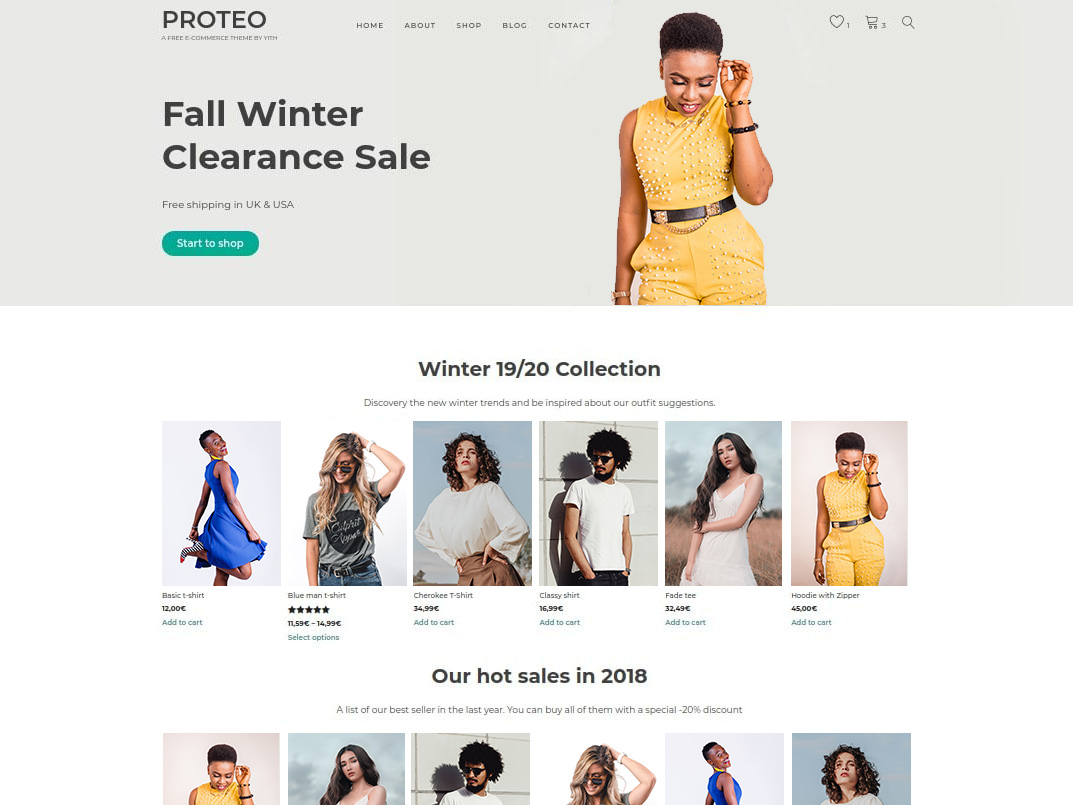
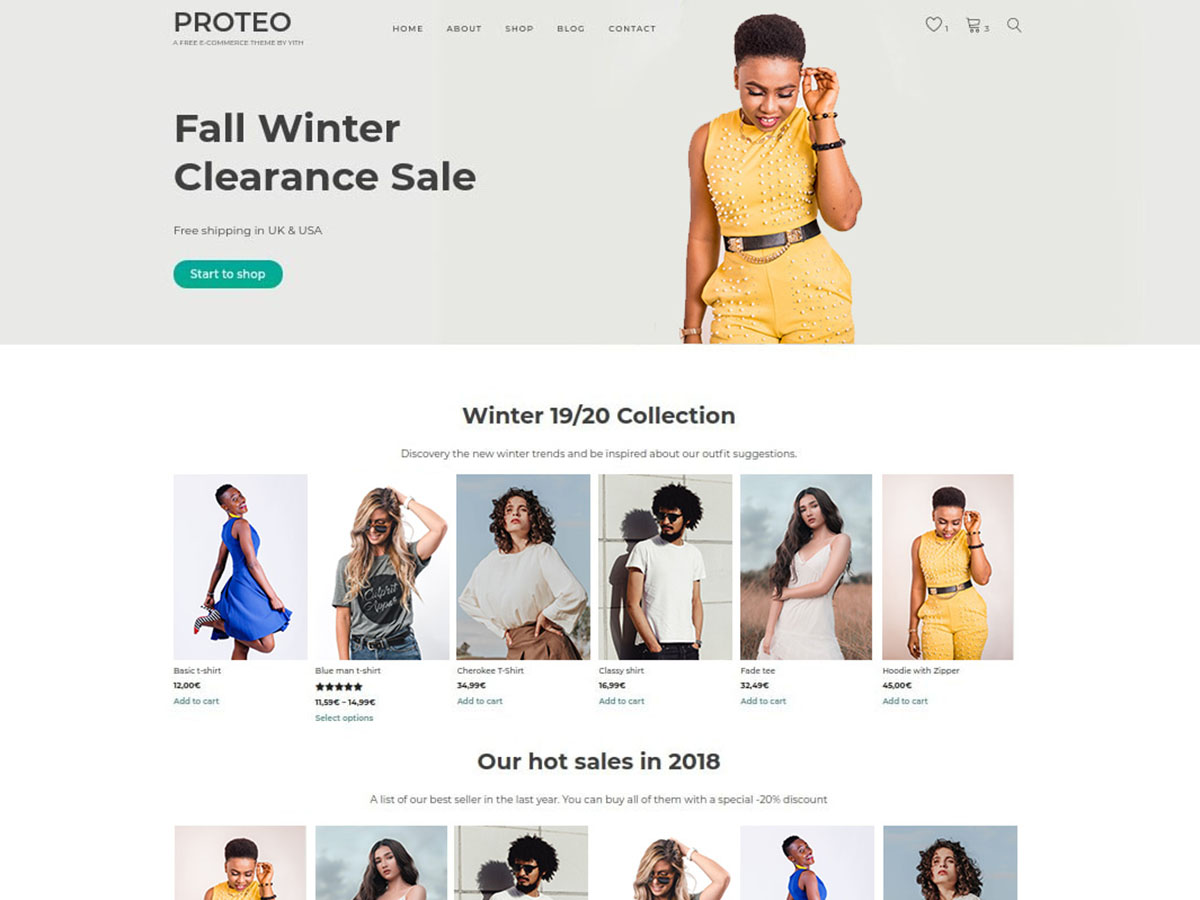
Version 1.0.7 * Minimum PHP is now 5.6 * Fix theme code to match PHP WordPress Coding standards * Fix blog posts date layout issue * Fix menu layout issue * Fix php notice * Fix missing select2 scripts when WooCommerce is not enabled * New screenshot with image authors credits

diff --git a/sass/style.scss b/sass/style.scss
@@ -5,7 +5,7 @@ Author: YITH
 Author URI: https://yithemes.com
 Description: Proteo is a sleek, modern and “Gutenberg-friendly” e-commerce theme. Developed with a beautiful UI and a minimal design, is perfect for each kind of shop. Easy to manage and to customize, Proteo is the best solution if you want a complete e-commerce template and start quickly to sell your products with WooCommerce without a technical knowledge. Use it also for corporate site or a blog: there are no limits about what you can do with a beautiful and usable theme like this! Main features: Colors and Typography customization (Google font support), Logo customization, 3 different Header layouts, Advanced customizer theme options, Sidebar Management, Sidebar Chooser on each page and product, Page title icons, Top Bar Management, Easy main color shade chooser, Buttons style management (gradient buttons support), Footer management with multiple sidebars, WooCommerce support, Shop Theme Options, Custom WooCommerce messages and animated WooCommerce alert notices, Two cart page layouts, Bootstrap grid system, CSS animations, Gutenberg support, Responsive, Fullscreen search, Multilevel menus, Support to all YITH plugins, SVG icons for HiDPI screens, Translation Ready. <a href="https://proteo.yithemes.com/about-proteo/" rel="nofollow" target="_blank">Discover more ></a> | <a href="https://proteo.yithemes.com/" rel="nofollow" target="_blank">Check our live demo ></a>
 
-Version: 1.0.6
+Version: 1.0.7
 License: GPLv2 or later
 License URI: http://www.gnu.org/licenses/gpl-2.0.html
 Text Domain: yith-proteo
@@ -13,13 +13,8 @@ Tags: one-column, two-columns, left-sidebar, right-sidebar, wide-blocks, block-s
 
 This theme, like WordPress, is licensed under the GPL.
 Use it to make something cool, have fun, and share what you've learned with others.
-
-yith-proteo is based on Underscores https://underscores.me/, (C) 2012-2017 Automattic, Inc.
-Underscores is distributed under the terms of the GNU GPL v2 or later.
-
-Normalizing styles have been helped along thanks to the fine work of
-Nicolas Gallagher and Jonathan Neal https://necolas.github.io/normalize.css/
 */
+
 /*--------------------------------------------------------------
 >>> TABLE OF CONTENTS:
 ----------------------------------------------------------------
@@ -31,17 +26,24 @@ Nicolas Gallagher and Jonathan Neal https://necolas.github.io/normalize.css/
 # Navigation
 	## Links
 	## Menus
+# Header
 # Accessibility
 # Alignments
 # Clearings
+# Full Screen Search
 # Widgets
 # Content
 	## Posts and pages
 	## Comments
+# Footer
+# WooCommerce
 # Infinite scroll
 # Media
 	## Captions
 	## Galleries
+# Shortcodes
+# Third Party
+# Responsive
 --------------------------------------------------------------*/
 @import "variables-site/variables-site";
 @import "mixins/mixins-master";

diff --git a/style.css b/style.css
@@ -6,7 +6,7 @@ Author: YITH
 Author URI: https://yithemes.com
 Description: Proteo is a sleek, modern and “Gutenberg-friendly” e-commerce theme. Developed with a beautiful UI and a minimal design, is perfect for each kind of shop. Easy to manage and to customize, Proteo is the best solution if you want a complete e-commerce template and start quickly to sell your products with WooCommerce without a technical knowledge. Use it also for corporate site or a blog: there are no limits about what you can do with a beautiful and usable theme like this! Main features: Colors and Typography customization (Google font support), Logo customization, 3 different Header layouts, Advanced customizer theme options, Sidebar Management, Sidebar Chooser on each page and product, Page title icons, Top Bar Management, Easy main color shade chooser, Buttons style management (gradient buttons support), Footer management with multiple sidebars, WooCommerce support, Shop Theme Options, Custom WooCommerce messages and animated WooCommerce alert notices, Two cart page layouts, Bootstrap grid system, CSS animations, Gutenberg support, Responsive, Fullscreen search, Multilevel menus, Support to all YITH plugins, SVG icons for HiDPI screens, Translation Ready. <a href="https://proteo.yithemes.com/about-proteo/" rel="nofollow" target="_blank">Discover more ></a> | <a href="https://proteo.yithemes.com/" rel="nofollow" target="_blank">Check our live demo ></a>
 
-Version: 1.0.6
+Version: 1.0.7
 License: GPLv2 or later
 License URI: http://www.gnu.org/licenses/gpl-2.0.html
 Text Domain: yith-proteo
@@ -14,12 +14,6 @@ Tags: one-column, two-columns, left-sidebar, right-sidebar, wide-blocks, block-s
 
 This theme, like WordPress, is licensed under the GPL.
 Use it to make something cool, have fun, and share what you've learned with others.
-
-yith-proteo is based on Underscores https://underscores.me/, (C) 2012-2017 Automattic, Inc.
-Underscores is distributed under the terms of the GNU GPL v2 or later.
-
-Normalizing styles have been helped along thanks to the fine work of
-Nicolas Gallagher and Jonathan Neal https://necolas.github.io/normalize.css/
 */
 /*--------------------------------------------------------------
 >>> TABLE OF CONTENTS:
@@ -32,17 +26,24 @@ Nicolas Gallagher and Jonathan Neal https://necolas.github.io/normalize.css/
 # Navigation
 	## Links
 	## Menus
+# Header
 # Accessibility
 # Alignments
 # Clearings
+# Full Screen Search
 # Widgets
 # Content
 	## Posts and pages
 	## Comments
+# Footer
+# WooCommerce
 # Infinite scroll
 # Media
 	## Captions
 	## Galleries
+# Shortcodes
+# Third Party
+# Responsive
 --------------------------------------------------------------*/
 /*--------------------------------------------------------------
 # Normalize

diff --git a/inc/metaboxes.php b/inc/metaboxes.php
@@ -171,7 +171,7 @@ function yith_proteo_sidebar_position_html( $post ) {
 			<?php esc_html_e( 'inherit', 'yith-proteo' ); ?>
 		</option>
 		<option
-			value="<?php esc_attr_e( '\'no-sidebar', 'yith-proteo' ); ?>" <?php echo ( yith_proteo_sidebar_get_meta( 'sidebar_position' ) === 'no-sidebar' ) ? 'selected' : ''; ?>>
+			value="<?php esc_attr_e( 'no-sidebar', 'yith-proteo' ); ?>" <?php echo ( yith_proteo_sidebar_get_meta( 'sidebar_position' ) === 'no-sidebar' ) ? 'selected' : ''; ?>>
 			<?php esc_html_e( 'no-sidebar', 'yith-proteo' ); ?>
 		</option>
 		<option
